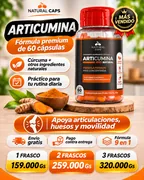
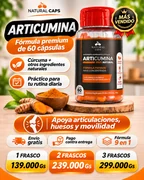
Actualizar los precios de Articumina en la landing

diff --git a/index.html b/index.html
@@ -347,7 +347,7 @@ if(!f._fbq)f._fbq=n;n.push=n;n.loaded=!0;n.version='2.0';n.queue=[];t=b.createEl
 t.src=v;s=b.getElementsByTagName(e)[0];s.parentNode.insertBefore(t,s)}(window,document,'script','https://connect.facebook.net/en_US/fbevents.js');
 fbq('init', '2141006803281667');
 fbq('track', 'PageView');
-fbq('track', 'ViewContent', { content_name: 'Articumina', content_type: 'product', value: 159000, currency: 'PYG' });
+fbq('track', 'ViewContent', { content_name: 'Articumina', content_type: 'product', value: 139000, currency: 'PYG' });
 </script>
 <noscript><img height="1" width="1" style="display:none" alt="" src="https://www.facebook.com/tr?id=2141006803281667&ev=PageView&noscript=1"></noscript>
 </head>
@@ -359,8 +359,8 @@ fbq('track', 'ViewContent', { content_name: 'Articumina', content_type: 'product
     <div class="gallery" role="group" aria-label="Fotos de Articumina">
       <div class="gallery__main" id="galleryMain">
         <div id="galleryPhoto">
-          <img id="coverPhoto" src="img/articumina-portada.webp"
-            srcset="img/articumina-portada-640.webp 640w, img/articumina-portada.webp 1122w"
+          <img id="coverPhoto" src="img/articumina-portada.webp?v=precios-139"
+            srcset="img/articumina-portada-640.webp?v=precios-139 640w, img/articumina-portada.webp?v=precios-139 1122w"
             sizes="(min-width: 1100px) 533px, (min-width: 900px) 48vw, (min-width: 592px) 560px, calc(100vw - 32px)"
             width="1122" height="1402" fetchpriority="high"
             alt="Articumina Natural Caps. Fórmula 9 en 1 con 60 cápsulas.">
@@ -598,7 +598,7 @@ fbq('track', 'ViewContent', { content_name: 'Articumina', content_type: 'product
 <div class="banner">
   <p class="banner__note" id="bannerPriceNote" hidden>La imagen muestra los precios de lista. Tu descuento se aplica en el pedido.</p>
   <button type="button" id="comboBanner" data-banner-order>
-    <img src="img/seccion-5.webp" width="1080" height="1350" alt="Elegí tu combo de Articumina: 1 frasco por Gs. 159.000, 2 por Gs. 259.000 o 3 por Gs. 320.000. Abrir pedido." loading="lazy" decoding="async">
+    <img src="img/seccion-5.webp?v=precios-139" width="1080" height="1350" alt="Elegí tu combo de Articumina: 1 frasco por Gs. 139.000, 2 por Gs. 239.000 o 3 por Gs. 299.000. Abrir pedido." loading="lazy" decoding="async">
   </button>
 </div>
 <div class="divider on-brand"></div>
@@ -651,9 +651,9 @@ const CONFIG = {
 
   /* Precios del catálogo. compare = el mismo frasco comprado suelto (ahorro real del combo). */
   offers: [
-    { id: "1u", title: "1 frasco · 60 cápsulas",   sub: "Rinde 30 días", img: "img/combo-1.webp", qty: 1, price: 159000, default: true },
-    { id: "2u", title: "2 frascos · 120 cápsulas", sub: "Rinde 60 días", img: "img/combo-2.webp", qty: 2, price: 259000, compare: 318000, tag: "⭐ EL MÁS ELEGIDO" },
-    { id: "3u", title: "3 frascos · 180 cápsulas", sub: "Rinde 90 días", img: "img/combo-3.webp", qty: 3, price: 320000, compare: 477000, tag: "🔥 MEJOR PRECIO" }
+    { id: "1u", title: "1 frasco · 60 cápsulas",   sub: "Rinde 30 días", img: "img/combo-1.webp", qty: 1, price: 139000, default: true },
+    { id: "2u", title: "2 frascos · 120 cápsulas", sub: "Rinde 60 días", img: "img/combo-2.webp", qty: 2, price: 239000, compare: 278000, tag: "⭐ EL MÁS ELEGIDO" },
+    { id: "3u", title: "3 frascos · 180 cápsulas", sub: "Rinde 90 días", img: "img/combo-3.webp", qty: 3, price: 299000, compare: 417000, tag: "🔥 MEJOR PRECIO" }
   ],
 
   countdownMinutes: 0,   // sin contador: no hay una oferta que venza
@@ -765,7 +765,7 @@ $("pProof").textContent = P.proof;
 $("badges").innerHTML = P.badges.map(b => `<span class="badge ${b.dark ? "dark" : ""}">${esc(b.text)}</span>`).join("");
 
 const coverPhoto = $("coverPhoto");
-const galleryImages = [{ thumb: "img/articumina-portada-thumb.webp" }, ...P.images];
+const galleryImages = [{ thumb: "img/articumina-portada-thumb.webp?v=precios-139" }, ...P.images];
 let current = 0;
 function showImage(i) {
   current = i;
